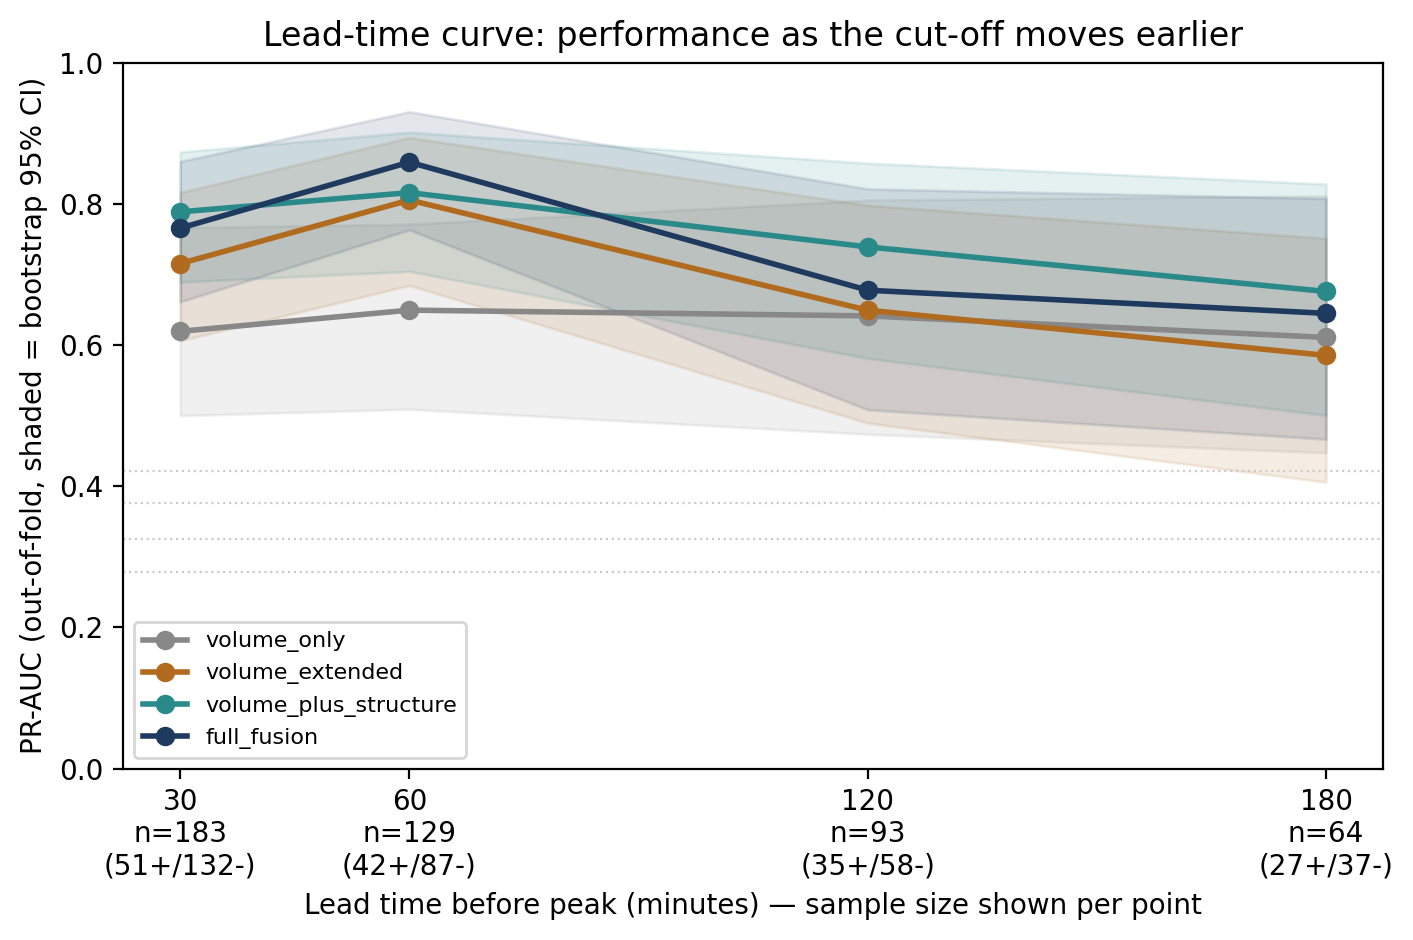
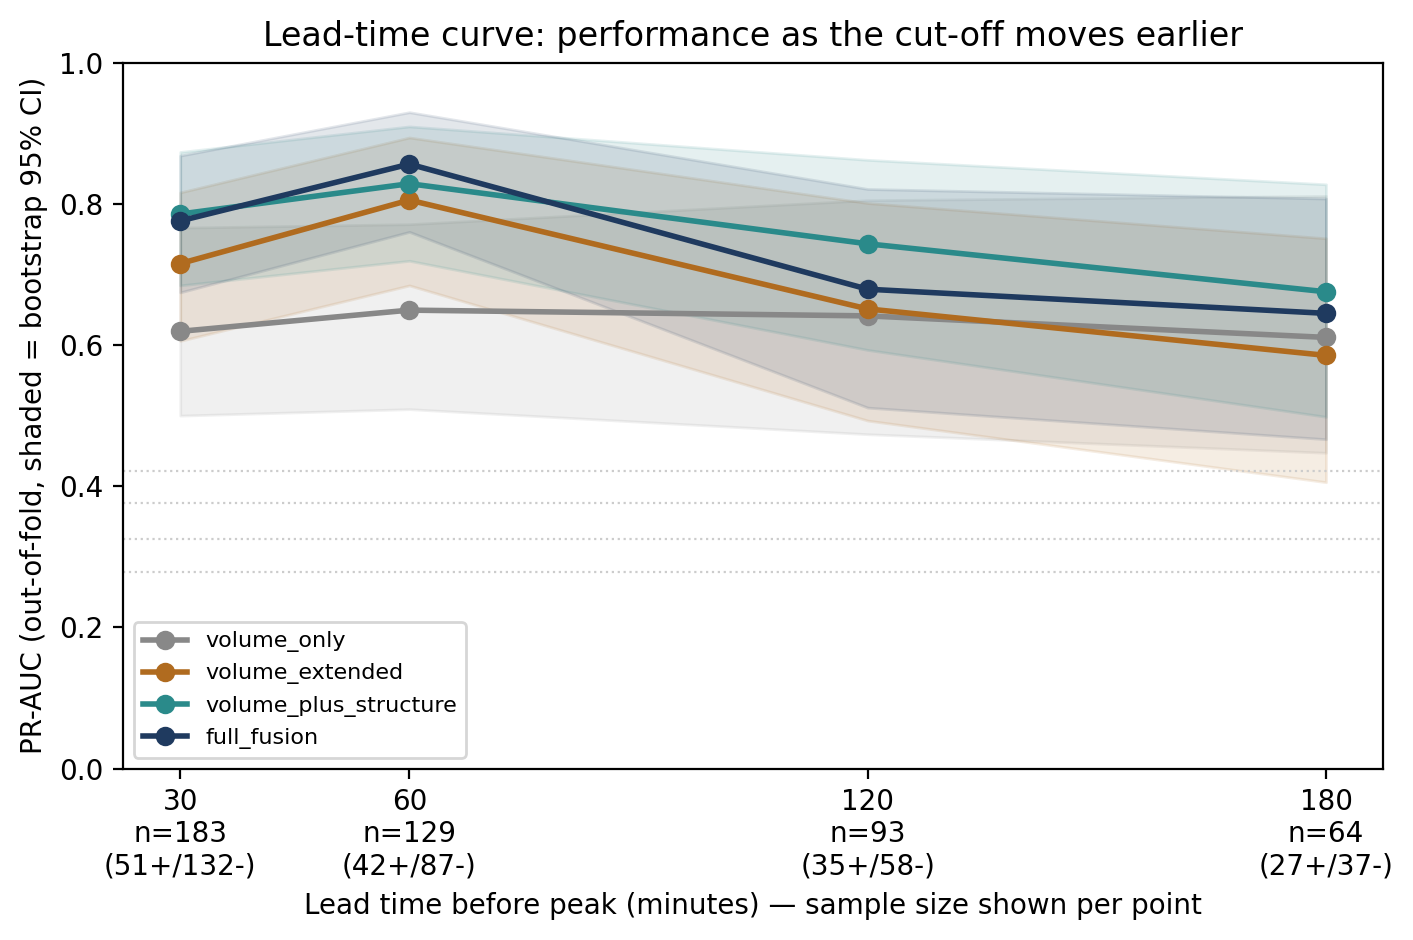
Give the primary configuration one number instead of two
The primary setting was reported three times and disagreed with itself.
lead_time rebuilt features in memory; ablation reads the cached CSVs. The
two matrices agree to 7.11e-15 -- and that was enough. HistGradientBoosting
bins each feature into 255 buckets, a value on a bin edge falls either
side depending on its last bit, and one flipped split cascades. Measured
at the shared 60-minute lead:

  feature source            volume_plus_structure   full_fusion
  in memory                        0.8159             0.8591
  after a CSV round-trip           0.8286             0.8563
  the cached CSV files             0.8286             0.8563

Ruled out first, in order: CV protocol, seed, estimator, residualisation,
column order, row order, non-determinism. A re-run of lead_time
reproduced its own numbers byte-for-byte, and all 61 feature columns
compared equal to 1e-9.

lead_time now round-trips its rebuilt features before scoring, so every
evaluator sees values that took the same numeric path. The 60-minute row
is now 0.649 / 0.805 / 0.829 / 0.856, matching the primary ablation
exactly.

The sensitivity itself is deliberately NOT fixed. Any pipeline that
serialises float features and trains a histogram-based model has it.
It is banked as defect 9 and stated as a second noise floor: the
existing +/-0.02-0.03 is statistical and comes from fold assignment;
this one is numerical, survives identical data and seeds, and cannot be
[…]

diff --git a/src/eval/results_summary.py b/src/eval/results_summary.py
@@ -299,7 +299,8 @@ def _sens_table(block: dict, title: str, primary: str, note: str) -> list[str]:
     lifts = []
     for key, r in block.items():
         setting = key.split("=")[-1]
-        mark = " *(primary)*" if setting == primary else ""
+        mark = (" *(primary — shared anchor, see note above §6)*"
+                if setting == primary else "")
         c = r["prevalence"]
         cells = [f3(r["arms"][a]["pr_auc"]) for a in arms]
         lifts.append(r["arms"]["full_fusion"]["pr_auc"] - c)
@@ -515,9 +516,14 @@ def build(cfg: dict) -> str:
         "prevalence 0.279 and barely above it at 0.422. Never compare PR-AUC "
         "across tables without the chance line.",
         "",
-        "**Second:** resampling noise is **±0.02–0.03 PR-AUC** on identical "
-        "data (measured — see FINDINGS). Differences below ~0.05 carry no "
-        "interpretation. Report the intervals, not the point estimates.",
+        "**Second:** differences below ~0.05 PR-AUC carry no interpretation, "
+        "and that floor has **two** independent components. Resampling noise "
+        "is ±0.02–0.03 on identical data. On top of it sits a *numerical* "
+        "floor: the same features, written to CSV and read back, differ by up "
+        "to 7e-15 per cell, which is enough to move a value across a "
+        "histogram bin edge in the gradient-boosted model and shift PR-AUC by "
+        "up to 0.013 (FINDINGS, defect 9). Report the intervals, not the "
+        "point estimates.",
         "",
         "**Third:** the language confound is **not controlled**. See "
         "`FINDINGS.md § The language confound is NOT fully controlled`. "
@@ -540,6 +546,20 @@ def build(cfg: dict) -> str:
         + section_lead_nested(lt) + ["---", ""]
         + section_language(lc) + ["---", ""]
         + section_common_support(rb) + ["---", ""]
+        + ["**The row marked *primary* below and the one in §7 are the same "
+           "run, not two results.** 15 and 90 are the settings the headline "
+           "uses, so both sweeps pass through the same fit; the two rows are "
+           "bit-identical, confidence intervals included. Counting them "
+           "separately would double-count one fit.",
+           "",
+           "It is **not** the same run as §1, and is not expected to match "
+           "it. Both sensitivity sweeps deliberately use a different "
+           "cross-validation seed from the headline (`seed + 5`), so that a "
+           "sensitivity result is not an artefact of one particular fold "
+           "split. Reading across from §1 to here therefore compares two "
+           "different partitions of the same 129 units: the arms move by up "
+           "to 0.05, which is itself a useful measure of how much fold "
+           "assignment alone is worth at this sample size.", ""]
         + _sens_table(
             rb["min_window_tweets"],
             "## 6. Sensitivity — `min_window_tweets` (the tuned parameter)",

diff --git a/src/eval/lead_time.py b/src/eval/lead_time.py
@@ -19,6 +19,7 @@ Run:  python -m src.eval.lead_time
 """
 from __future__ import annotations
 
+import io
 import json
 import time
 
@@ -38,6 +39,32 @@ from src.models.fusion import build_estimator, single_threaded
 # Kept deliberately small: H2 is about volume versus fusion as the lead grows,
 # and every extra arm costs sample-size-limited statistical clarity.
 ARMS = ["volume_only", "volume_extended", "volume_plus_structure", "full_fusion"]
+
+
+def _match_cached_precision(df: pd.DataFrame) -> pd.DataFrame:
+    """Send the rebuilt features through the same CSV round-trip the cached
+    ones took.
+
+    This sweep recomputes every feature per lead instead of reading the cached
+    matrices, so its float64 values never pass through text. `ablation.py`
+    reads the cached CSVs, where every value has been written and re-parsed.
+    The two differ by at most ~7e-15 per cell — and that is enough:
+    HistGradientBoosting bins each feature into 255 buckets, a value sitting on
+    a bin edge can fall either side, and one flipped split cascades. Measured,
+    at the shared 60-minute lead, it moved PR-AUC by up to 0.013 and made the
+    primary configuration report two different numbers depending on which
+    script printed it.
+
+    Round-tripping here costs a fraction of a second per lead and makes the
+    numeric path identical, so the primary configuration has one value. It does
+    NOT make the underlying sensitivity go away — that is recorded in
+    FINDINGS.md, because a result that moves by 0.013 on the last bit of a
+    float is a fact about this study's resolution, not a bug to paper over.
+    """
+    buf = io.StringIO()
+    df.to_csv(buf, index=False)
+    buf.seek(0)
+    return pd.read_csv(buf)
 
 
 def evaluate(cfg, df, arm):
@@ -121,7 +148,7 @@ def main() -> int:
                         if k not in ("topic", "label")})
             net.update(sent)
             rows.append(net)
-        df = pd.DataFrame(rows)
+        df = _match_cached_precision(pd.DataFrame(rows))
 
         preds, arm_res = {}, {}
         for arm in ARMS:

diff --git a/outputs/tables/RESULTS_SUMMARY.md b/outputs/tables/RESULTS_SUMMARY.md
@@ -6,7 +6,7 @@ All figures are out-of-fold predictions under 5-fold stratified cross-validation
 
 **Read this first:** `chance PR-AUC = prevalence`, and prevalence differs between tables. A PR-AUC of 0.62 is well above chance at prevalence 0.279 and barely above it at 0.422. Never compare PR-AUC across tables without the chance line.
 
-**Second:** resampling noise is **±0.02–0.03 PR-AUC** on identical data (measured — see FINDINGS). Differences below ~0.05 carry no interpretation. Report the intervals, not the point estimates.
+**Second:** differences below ~0.05 PR-AUC carry no interpretation, and that floor has **two** independent components. Resampling noise is ±0.02–0.03 on identical data. On top of it sits a *numerical* floor: the same features, written to CSV and read back, differ by up to 7e-15 per cell, which is enough to move a value across a histogram bin edge in the gradient-boosted model and shift PR-AUC by up to 0.013 (FINDINGS, defect 9). Report the intervals, not the point estimates.
 
 **Third:** the language confound is **not controlled**. See `FINDINGS.md § The language confound is NOT fully controlled`. Absolute performance figures below are not attributable to trend dynamics alone.
 
@@ -63,18 +63,18 @@ Composition varies with the lead; prevalence varies with it too. Use lift.
 
 | lead | n | pos | neg | chance | volume_only | volume_extended | volume_plus_structure | full_fusion | fusion vs vol_ext |
 |---|---|---|---|---|---|---|---|---|---|
-| 30 min | 183 | 51 | 132 | 0.279 | 0.619 | 0.715 | 0.789 | 0.766 | p = 0.4421 |
-| 60 min | 129 | 42 | 87 | 0.326 | 0.649 | 0.805 | 0.816 | 0.859 | p = 1.0000 |
-| 120 min | 93 | 35 | 58 | 0.376 | 0.641 | 0.649 | 0.739 | 0.678 | p = 0.3593 |
-| 180 min | 64 | 27 | 37 | 0.422 | 0.611 | 0.585 | 0.676 | 0.645 | p = 0.5572 |
+| 30 min | 183 | 51 | 132 | 0.279 | 0.619 | 0.715 | 0.786 | 0.776 | p = 0.4244 |
+| 60 min | 129 | 42 | 87 | 0.326 | 0.649 | 0.805 | 0.829 | 0.856 | p = 1.0000 |
+| 120 min | 93 | 35 | 58 | 0.376 | 0.641 | 0.651 | 0.743 | 0.679 | p = 0.3593 |
+| 180 min | 64 | 27 | 37 | 0.422 | 0.611 | 0.585 | 0.675 | 0.645 | p = 0.5572 |
 
 Lift over chance:
 
 | lead | volume_only | volume_extended | volume_plus_structure | full_fusion |
 |---|---|---|---|---|
-| 30 | +0.341 | +0.437 | +0.510 | +0.487 |
-| 60 | +0.324 | +0.480 | +0.490 | +0.533 |
-| 120 | +0.265 | +0.273 | +0.363 | +0.301 |
+| 30 | +0.341 | +0.437 | +0.507 | +0.497 |
+| 60 | +0.324 | +0.480 | +0.503 | +0.531 |
+| 120 | +0.265 | +0.275 | +0.367 | +0.303 |
 | 180 | +0.189 | +0.163 | +0.254 | +0.223 |
 
 ---
@@ -117,9 +117,9 @@ Lift over chance (0.500):
 
 | test | result |
 |---|---|
-| **A** language-only classifier | PR-AUC **0.897** [0.824, 0.958], ROC 0.893, chance 0.326 |
+| **A** language-only classifier | PR-AUC **0.889** [0.814, 0.952], ROC 0.880, chance 0.326 |
 | mean Spanish share of window | trending **0.482**, non-trending **0.978** |
-| **B** predicting language *from features* (ROC-AUC) | full_fusion 0.847 · volume_extended 0.767 · structure_size_free 0.747 · volume_only 0.735 · temporal_only 0.683 · sentiment_only 0.683 |
+| **B** predicting language *from features* (ROC-AUC) | full_fusion 0.790 · volume_extended 0.761 · volume_only 0.749 · temporal_only 0.681 · structure_size_free 0.677 · sentiment_only 0.508 |
 | **C** within-language subset | **impossible** — at ≥90% Spanish: 6 trending vs 80 non-trending |
 
 Spanish share of window, by class:
@@ -142,37 +142,41 @@ The non-trending **minimum** (0.824) exceeds the trending **75th percentile** (0
 
 | arm | PR-AUC | 95% CI | lift |
 |---|---|---|---|
-| volume_only | 0.442 | [0.296, 0.681] | +0.093 |
-| structure_size_free | 0.558 | [0.332, 0.780] | +0.209 |
-| full_fusion | 0.743 | [0.535, 0.900] | +0.395 |
-| volume_extended | 0.811 | [0.598, 0.958] | +0.463 |
-| **Spanish share alone** | **0.716** | [0.481, 0.890] | **+0.367** |
+| volume_only | 0.442 | [0.296, 0.705] | +0.093 |
+| structure_size_free | 0.647 | [0.404, 0.876] | +0.298 |
+| volume_extended | 0.689 | [0.461, 0.916] | +0.340 |
+| full_fusion | 0.803 | [0.619, 0.944] | +0.454 |
+| **Spanish share alone** | **0.642** | [0.414, 0.834] | **+0.293** |
 
-full_fusion vs volume_extended: McNemar p = 0.5488 (4 / 7 discordant).
+full_fusion vs volume_extended: McNemar p = 0.7744 (5 / 7 discordant).
 
-**Language still scores 0.716 inside the band selected for common language support** — a lift of +0.367 over chance in the region built to neutralise it. Restriction does not remove the confound. At n = 43 nothing here separates one arm from another; the point is that the confound survives the restriction, not which arm leads inside it.
+**Language still scores 0.642 inside the band selected for common language support** — a lift of +0.293 over chance in the region built to neutralise it. Restriction does not remove the confound. At n = 43 nothing here separates one arm from another; the point is that the confound survives the restriction, not which arm leads inside it.
 
 ---
+
+**The row marked *primary* below and the one in §7 are the same run, not two results.** 15 and 90 are the settings the headline uses, so both sweeps pass through the same fit; the two rows are bit-identical, confidence intervals included. Counting them separately would double-count one fit.
+
+It is **not** the same run as §1, and is not expected to match it. Both sensitivity sweeps deliberately use a different cross-validation seed from the headline (`seed + 5`), so that a sensitivity result is not an artefact of one particular fold split. Reading across from §1 to here therefore compares two different partitions of the same 129 units: the arms move by up to 0.05, which is itself a useful measure of how much fold assignment alone is worth at this sample size.
 
 ## 6. Sensitivity — `min_window_tweets` (the tuned parameter)
 
 | setting | n | pos | neg | chance | volume_only | structure_size_free | volume_extended | full_fusion | fusion vs vol_ext |
 |---|---|---|---|---|---|---|---|---|---|
-| 15 *(primary)* | 129 | 42 | 87 | 0.326 | 0.621 | 0.671 | 0.786 | 0.851 | p = 0.3075 |
-| 20 | 102 | 39 | 63 | 0.382 | 0.672 | 0.603 | 0.824 | 0.885 | p = 0.5235 |
-| 25 | 79 | 37 | 42 | 0.468 | 0.746 | 0.802 | 0.833 | 0.905 | p = 0.5034 |
+| 15 *(primary — shared anchor, see note above §6)* | 129 | 42 | 87 | 0.326 | 0.616 | 0.643 | 0.794 | 0.858 | p = 0.5034 |
+| 20 | 102 | 39 | 63 | 0.382 | 0.653 | 0.716 | 0.830 | 0.900 | p = 0.8238 |
+| 25 | 79 | 37 | 42 | 0.468 | 0.726 | 0.798 | 0.840 | 0.882 | p = 0.5413 |
 
-full_fusion lift over chance: +0.525, +0.503, +0.437. Raw PR-AUC rises with the threshold only because prevalence does.
+full_fusion lift over chance: +0.532, +0.517, +0.414. Raw PR-AUC rises with the threshold only because prevalence does.
 
 ## 7. Sensitivity — window length (drives graph sparsity)
 
 | setting | n | pos | neg | chance | volume_only | structure_size_free | volume_extended | full_fusion | fusion vs vol_ext |
 |---|---|---|---|---|---|---|---|---|---|
-| 30min | 71 | 37 | 34 | 0.521 | 0.666 | 0.664 | 0.739 | 0.753 | p = 0.7011 |
-| 60min | 107 | 41 | 66 | 0.383 | 0.587 | 0.616 | 0.741 | 0.776 | p = 0.2632 |
-| 90min *(primary)* | 129 | 42 | 87 | 0.326 | 0.621 | 0.671 | 0.786 | 0.851 | p = 0.3075 |
+| 30min | 71 | 37 | 34 | 0.521 | 0.673 | 0.676 | 0.787 | 0.825 | p = 0.0963 |
+| 60min | 107 | 41 | 66 | 0.383 | 0.591 | 0.716 | 0.730 | 0.739 | p = 1.0000 |
+| 90min *(primary — shared anchor, see note above §6)* | 129 | 42 | 87 | 0.326 | 0.616 | 0.643 | 0.794 | 0.858 | p = 0.5034 |
 
-full_fusion lift over chance: +0.231, +0.393, +0.525. **Never significant against volume_extended at any setting** — neither tuned parameter produced the null.
+full_fusion lift over chance: +0.303, +0.356, +0.532. **Never significant against volume_extended at any setting** — neither tuned parameter produced the null.
 
 ---
 
